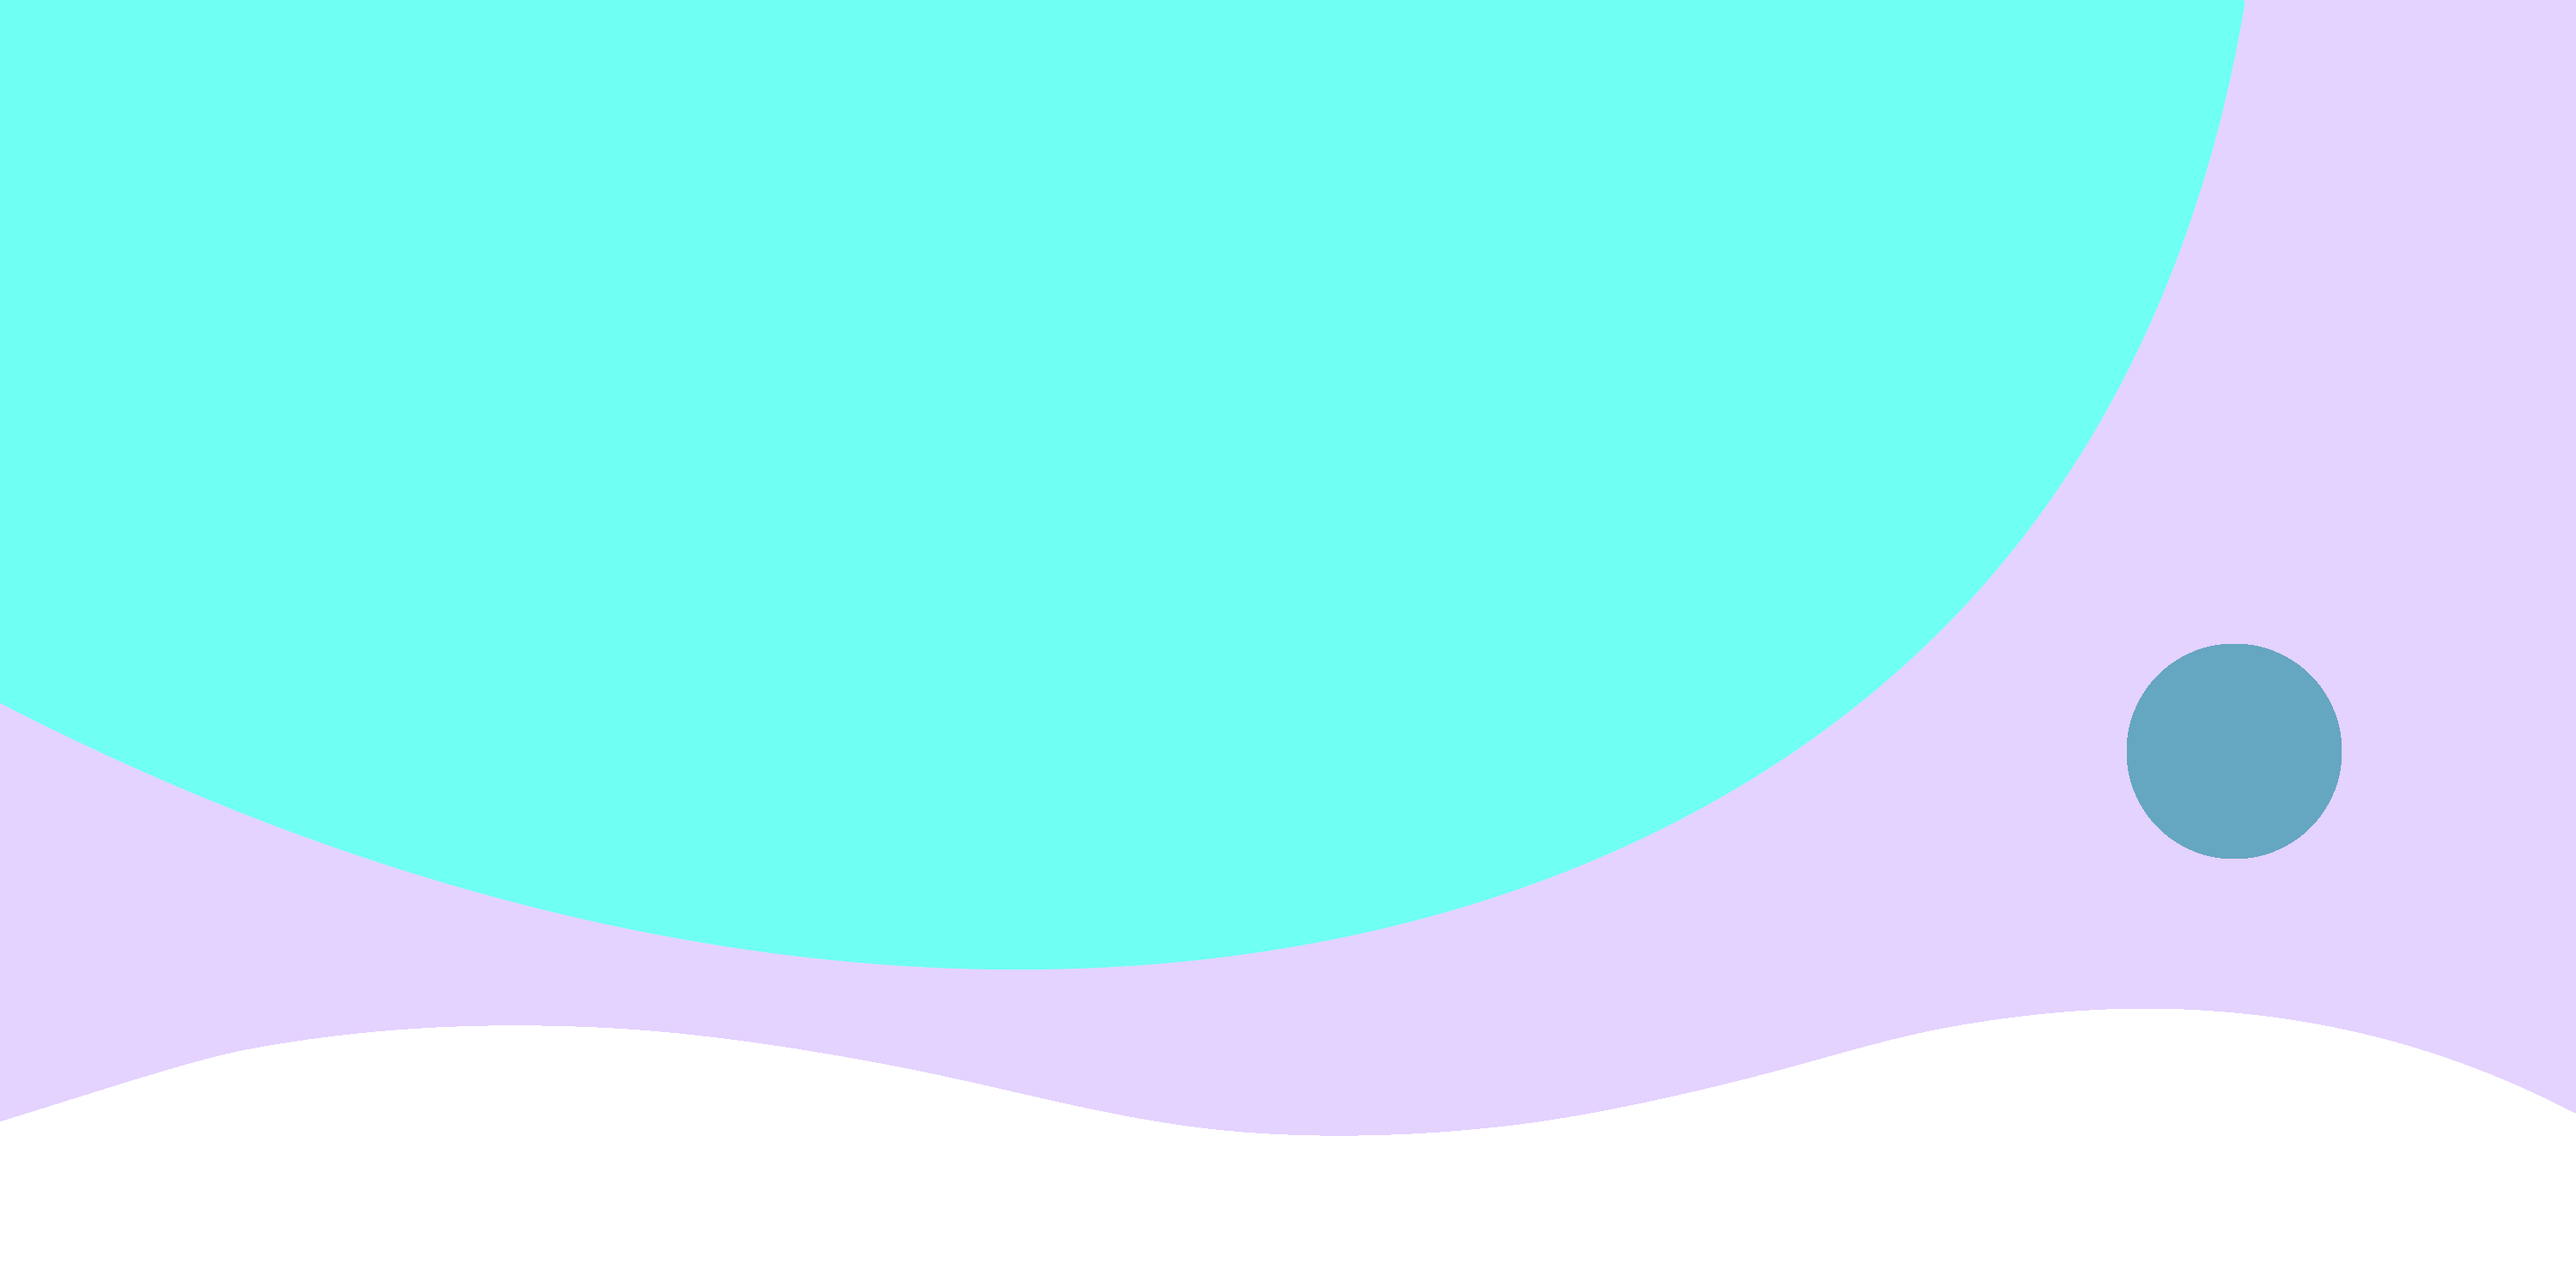
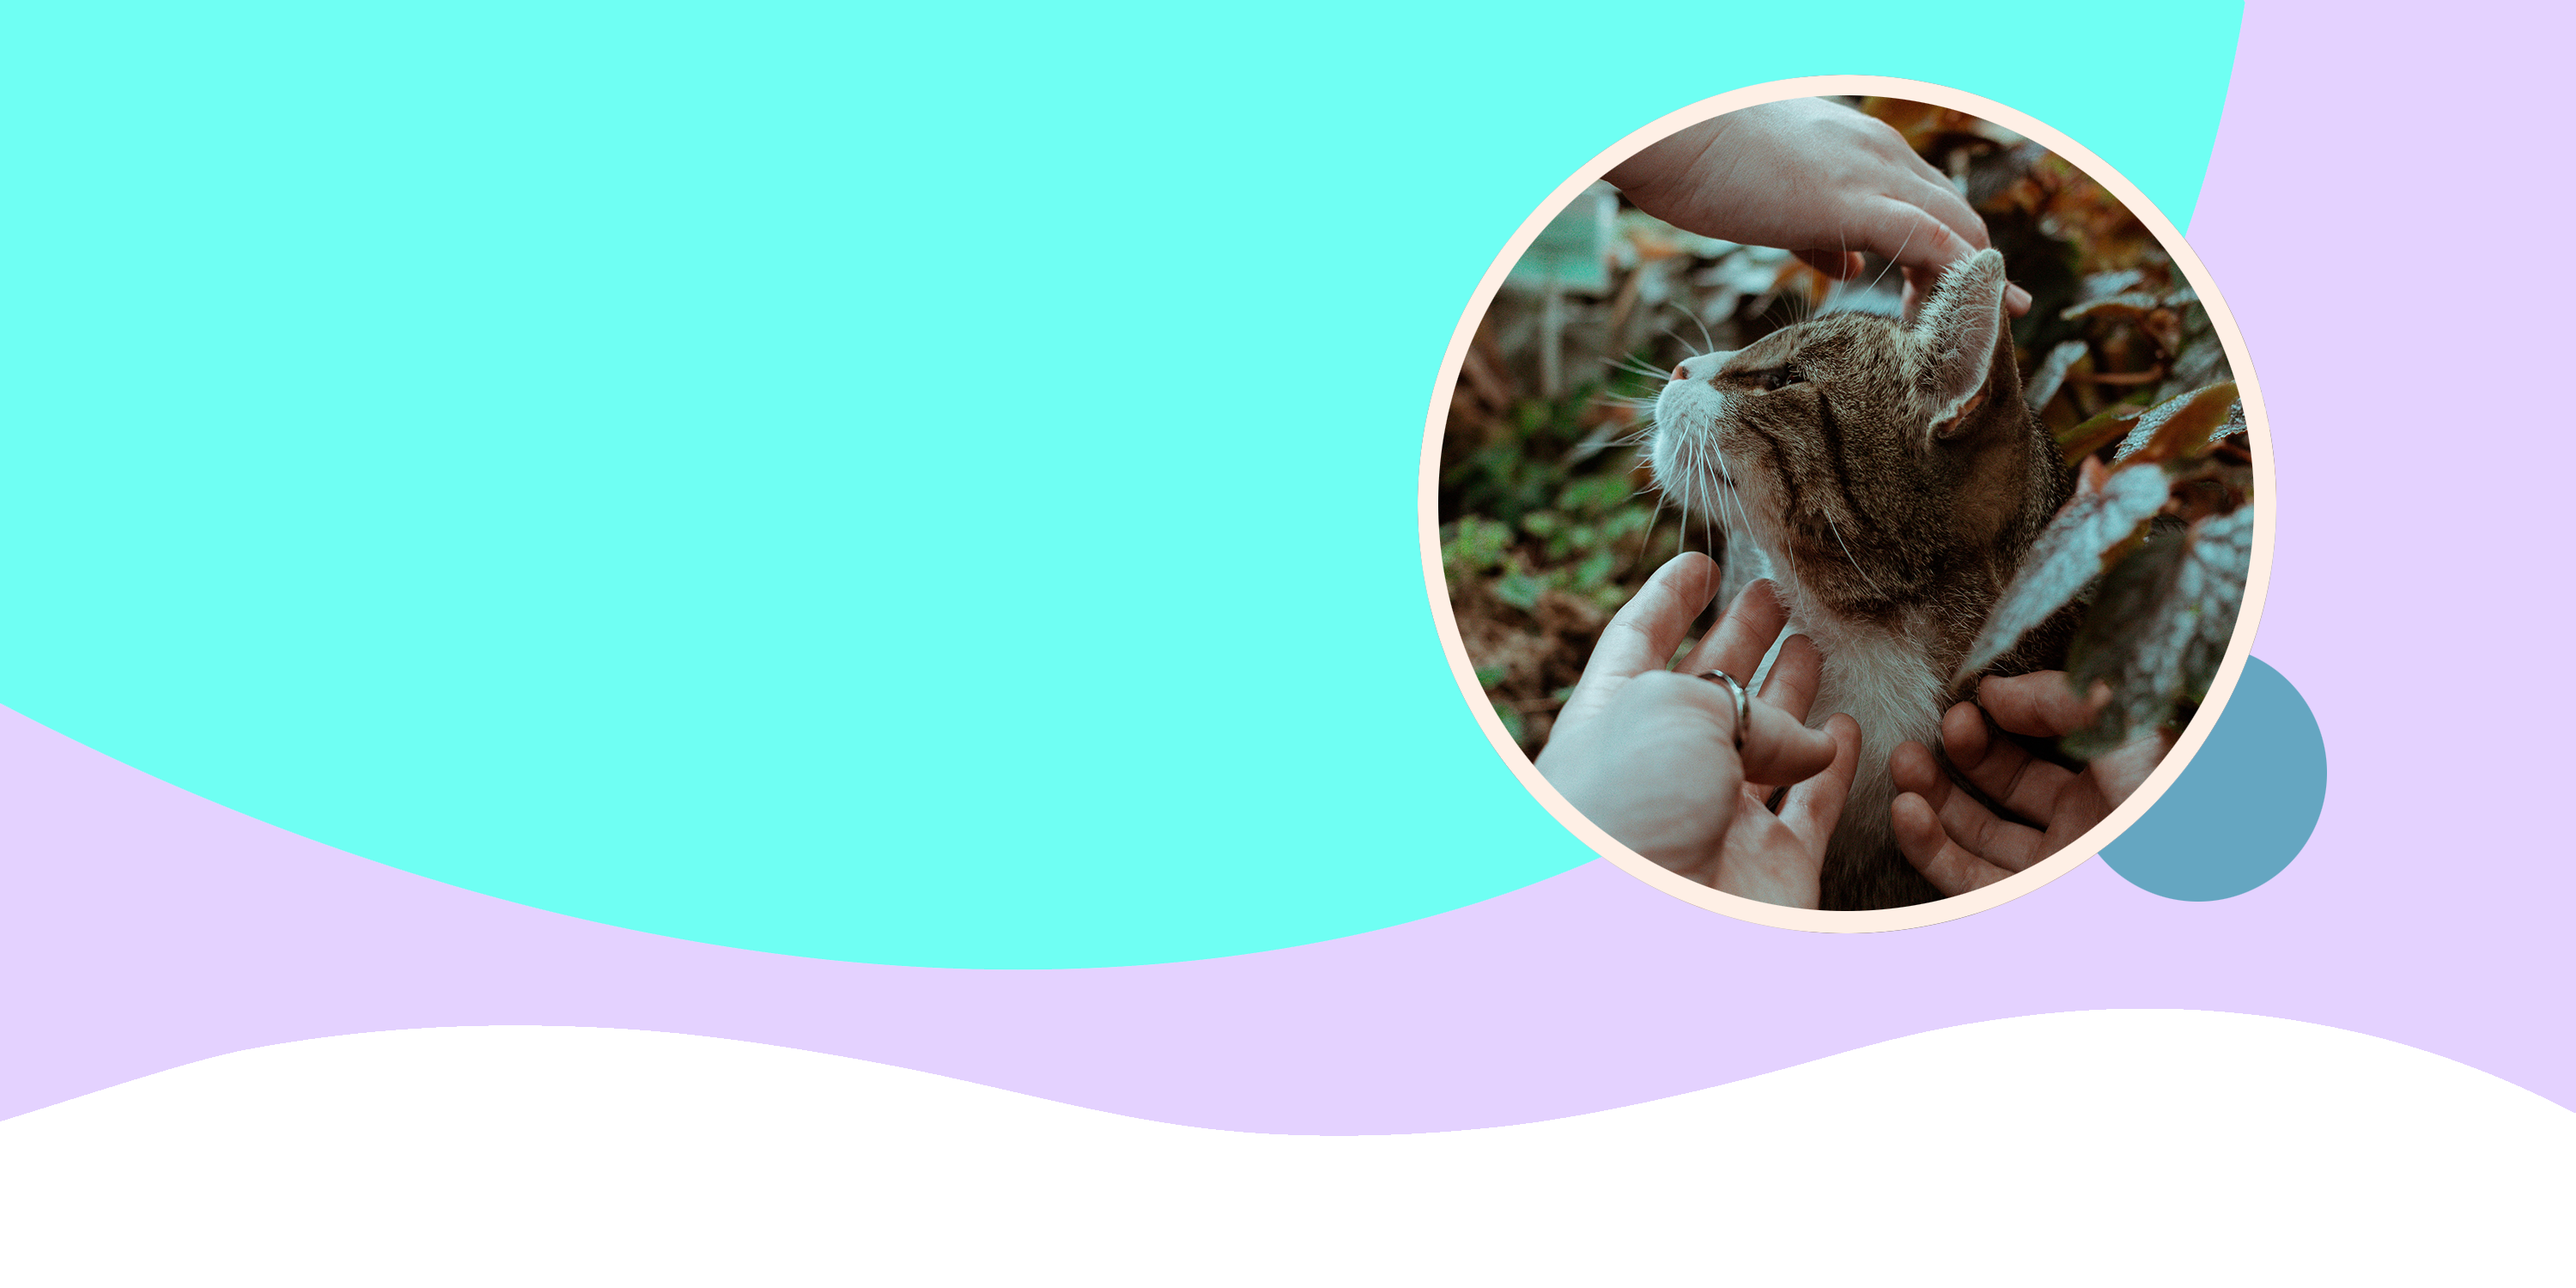
Added page title and fonts

Changed region(s): [[0.527, 0.0613, 0.93, 0.736]]

diff --git a/index.html b/index.html
@@ -12,6 +12,10 @@
     integrity="sha384-w76AqPfDkMBDXo30jS1Sgez6pr3x5MlQ1ZAGC+nuZB+EYdgRZgiwxhTBTkF7CXvN"
     crossorigin="anonymous"></script>
 
+  <link rel="preconnect" href="https://fonts.googleapis.com">
+  <link rel="preconnect" href="https://fonts.gstatic.com" crossorigin>
+  <link href="https://fonts.googleapis.com/css2?family=Fredoka+One&family=Poppins&display=swap" rel="stylesheet">
+
   <link rel="stylesheet" href="/css/style.css">
   <meta name="description"
     content="TFF is an animal welfare NGO in Mumbai that sterilizes and vaccinates stray cats, gives them medical treatment if required, and releases them back to their original location once they are healthy.">
@@ -43,9 +47,11 @@
       </div>
     </div>
   </nav>
-  
-  <img src="/media/header.png" class="header-img" />
 
+  <img src="/media/header.png" class="header-cover" />
+  <h1 class="main-h1">WE are an animal welfare NGO</h1>
+  <h2 class="main-h2">We aim to rehabilitate stray cats and build a cat-loving society that
+    looks out for their interests.</h2>
 </body>
 
 </html>

diff --git a/css/style.css b/css/style.css
@@ -1,8 +1,43 @@
+:root {
+  --first-color: #6ffff3;
+  --second-color: #e4d2ff;
+  --third-color: #ff128c;
+  --bg-color: #feefe5;
+  --font-color: #3a015c;
+}
+
+body {
+  background-color: var(--bg-color);
+}
+
 .tff-logo {
   width: 120px;
 }
 
-.header-img {
+.header-cover {
   position: absolute;
+  top: 60px;
   width: 100%;
+}
+
+.main-h1 {
+  font-family: "Fredoka One", cursive;
+  color: var(--third-color);
+  font-size: 80px;
+  position: relative;
+  left: 70px;
+  top: 120px;
+  text-shadow: -2px 2px black;
+  text-transform: capitalize;
+  width: 50%;
+}
+
+.main-h2 {
+  font-family: 'Poppins', sans-serif;
+  color: var(--font-color);
+  font-size: 30px;
+  position: relative;
+  left: 70px;
+  top: 160px;
+  width: 45%;
 }
